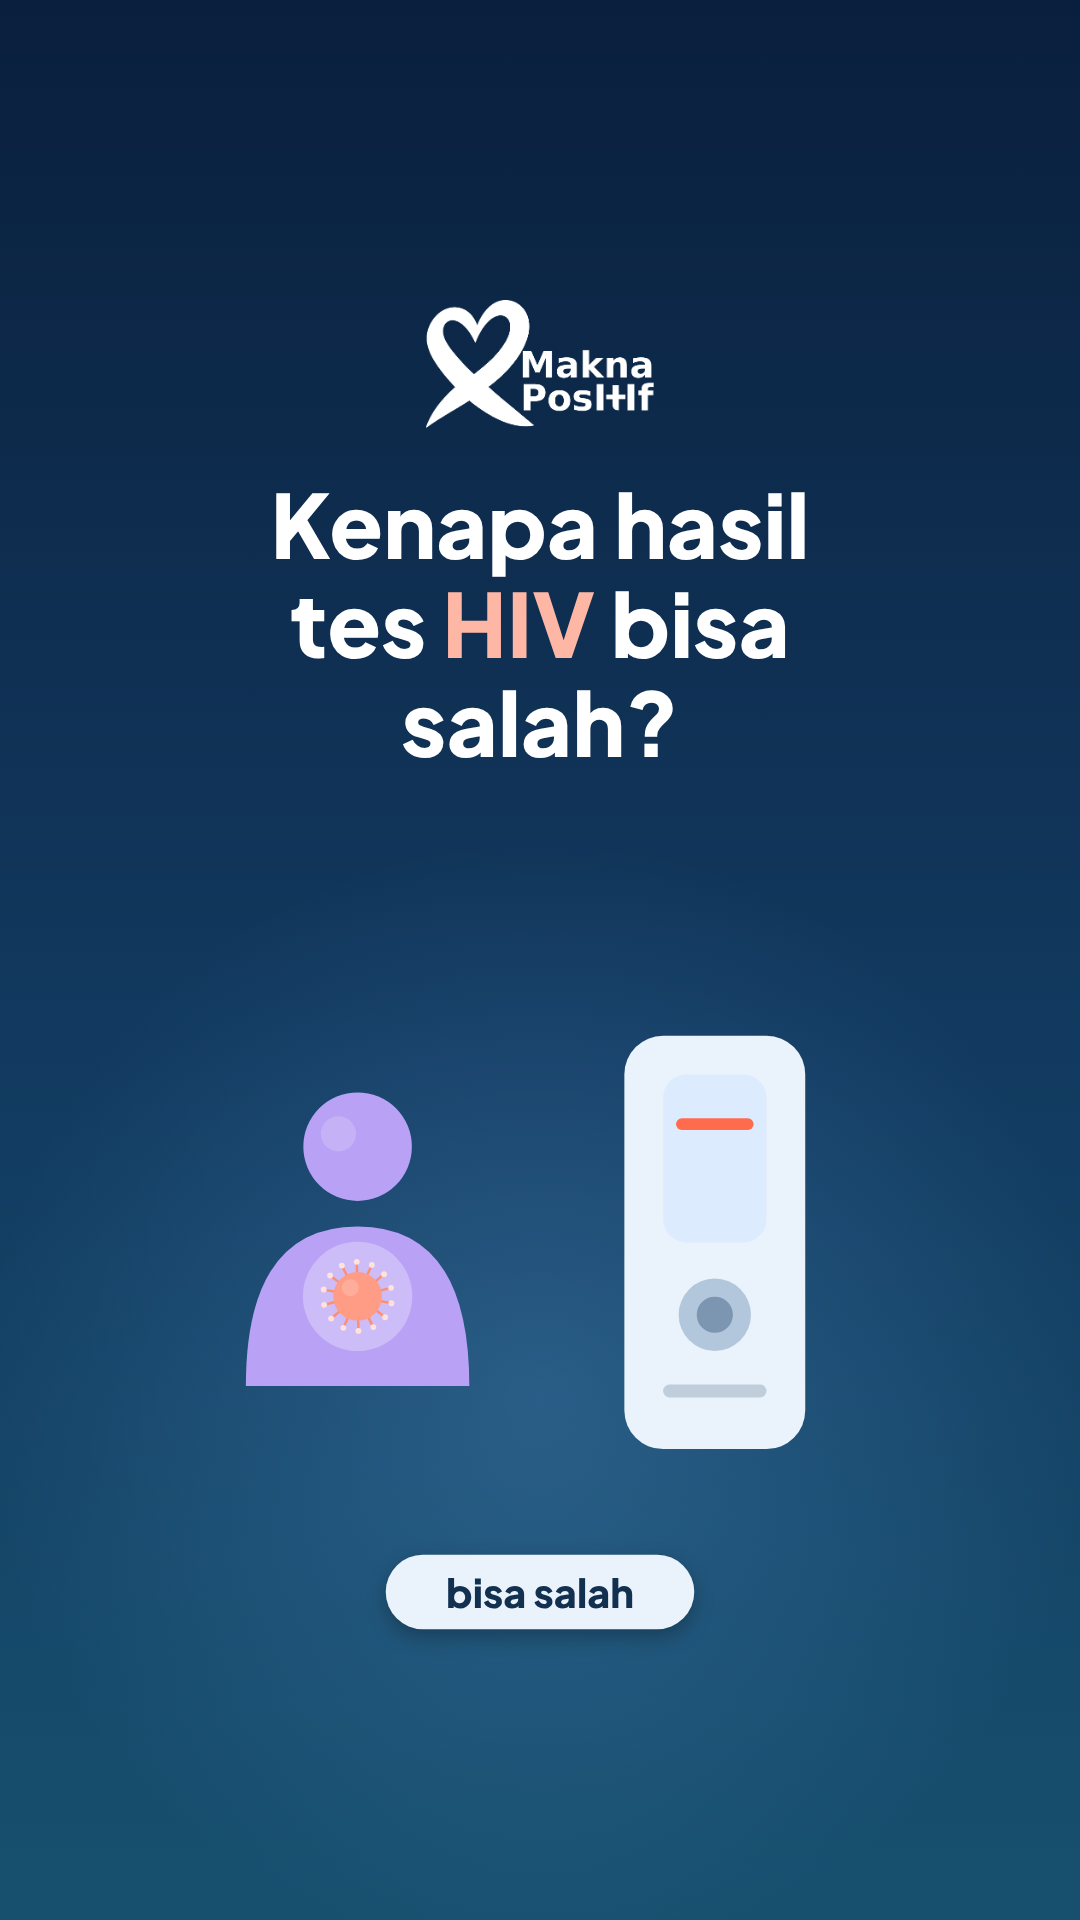
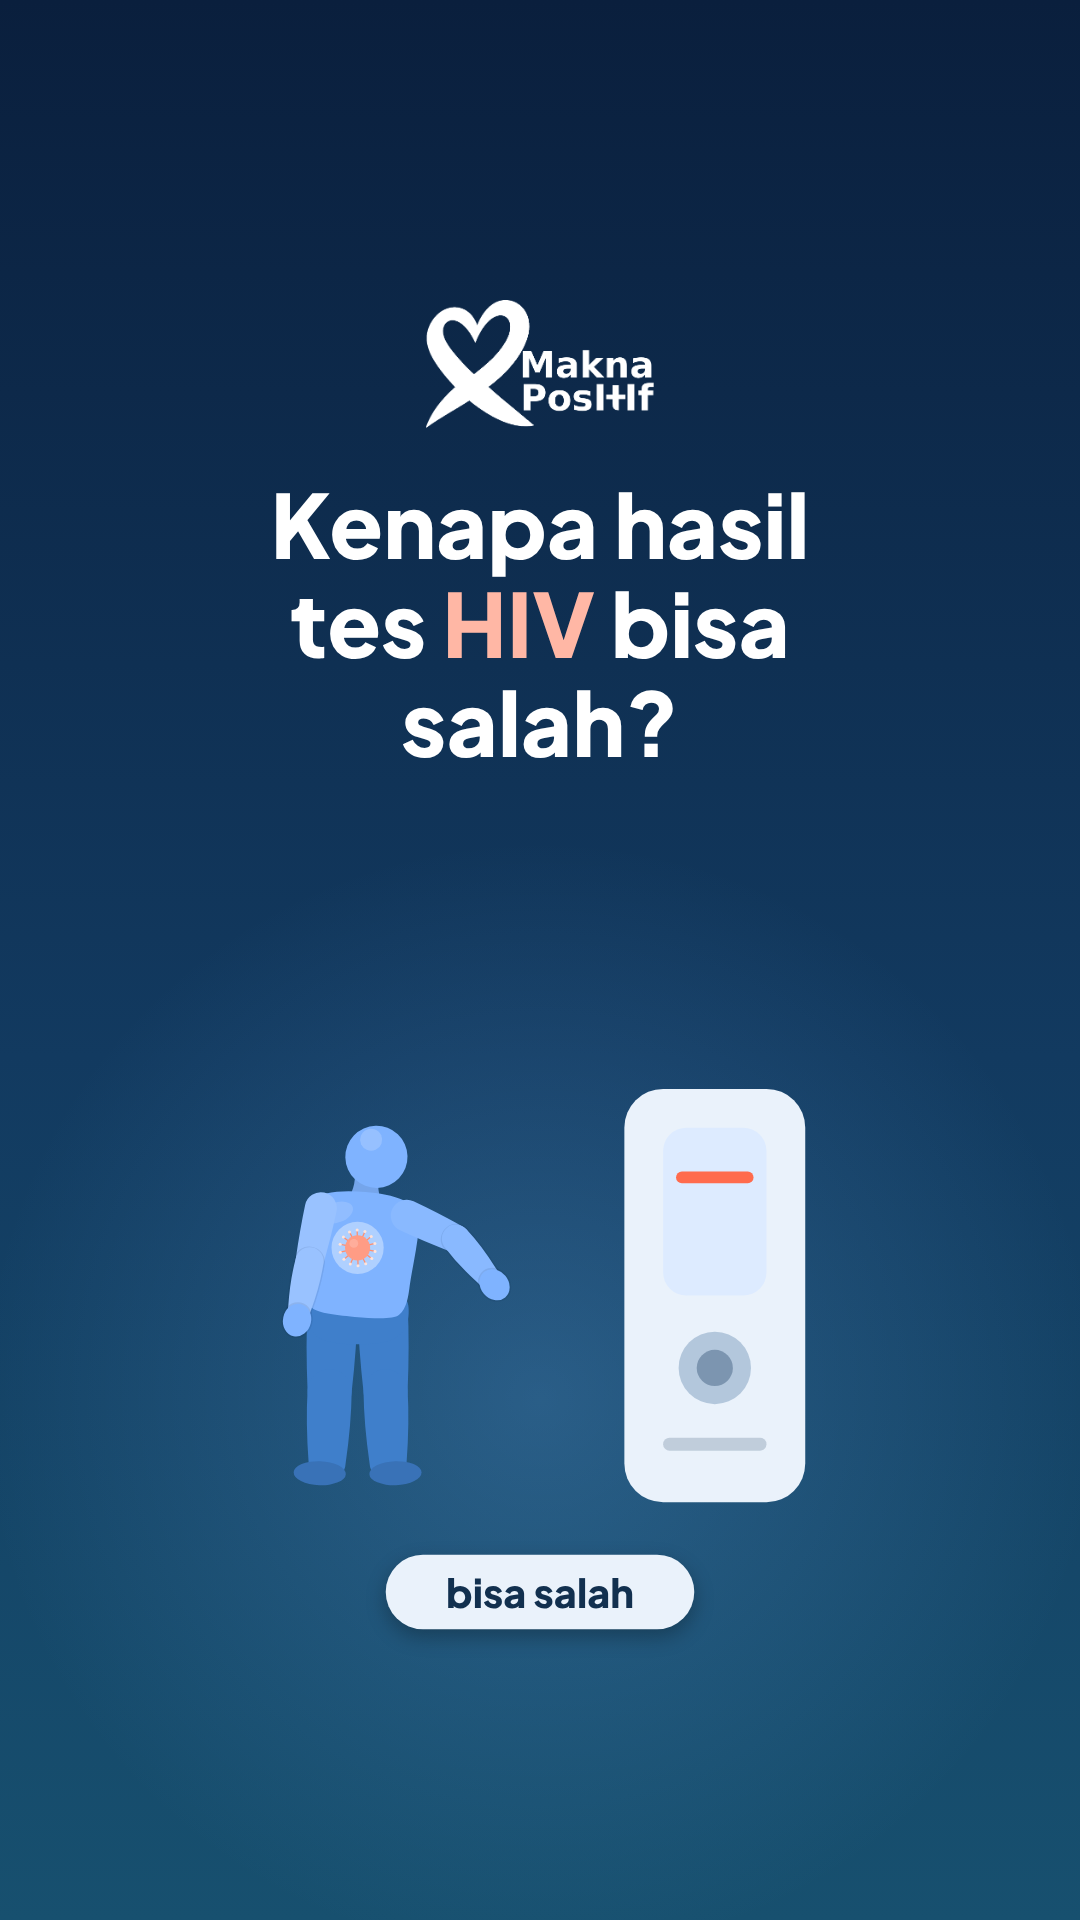
S2E10: pakai karakter modular (actor.tsx), tokoh lebih besar, pill lebih besar, kerucut kamera, thumbnail baru
Claude-Session: https://claude.ai/code/session_014bgpRKeZKvzyo9nF3WeRJL

Changed region(s): [[0.2139, 0.5625, 0.4889, 0.7812], [0.5806, 0.6562, 0.7639, 0.7812], [0.5806, 0.5312, 0.7639, 0.625]]

diff --git a/src/s2e10/S2E10.tsx b/src/s2e10/S2E10.tsx
@@ -5,6 +5,8 @@ import { ez, lerp, win, out3, sine, back, in3 } from '../motion';
 import * as L from '../shared/library';
 import { LIB_COL } from '../shared/library';
 import { FlatVirus, FlatCell, SHAPE_COL, Star } from '../shared/shapes';
+import { Actor, POSES_FRONT } from '../shared/actor';
+import type { Pose, ActorRole } from '../shared/actor';
 import { CUES, CLOSE, SCENE_T, T, TE, CL, EP_DUR } from './timeline';
 
 export const S2E10_FRAMES = Math.ceil(EP_DUR * FPS);
@@ -189,15 +191,18 @@ const RNA_COL = '#FF8E70'; // materi genetik virus
 const AG_COL = '#9ADBF0'; // tes antigen dan antibodi
 const SKY = '#DCE8F5';
 
-// "kamu" dengan virus di dalam lensa di dada (vk 0..1 = ukuran virus di dalam tubuh)
-const Body: React.FC<{ x: number; y: number; s?: number; op?: number; vk?: number; t: number }> = ({ x, y, s = 1, op = 1, vk = 1, t }) =>
+// tokoh modular (actor.tsx) berdiri di tanah gy; virus di dalam lensa di dada (vk 0..1)
+const gyc = (gy: number, s: number) => gy - 354 * s;
+const Hero: React.FC<{ x: number; gy: number; s?: number; op?: number; vk?: number; t: number; role?: ActorRole; pose?: Pose; lens?: boolean }> = ({ x, gy, s = 1, op = 1, vk = 1, t, role = 'blue', pose, lens = true }) =>
   s < 0.02 || op < 0.01 ? null : (
     <>
-      <L.Person cx={x} cy={y} s={s} op={op} color={KAMU} />
-      <g opacity={op}>
-        <circle cx={x} cy={y + 34 * s} r={34 * s} fill="#fff" opacity={0.28} />
-        {vk > 0.02 && <FlatVirus cx={x} cy={y + 34 * s} r={15 * s * vk} rot={t * 14} />}
-      </g>
+      <Actor cx={x} cy={gyc(gy, s)} s={s} op={op} role={role} pose={pose} />
+      {lens && (
+        <g opacity={op}>
+          <circle cx={x} cy={gyc(gy, s) - 120 * s} r={52 * s} fill="#fff" opacity={0.38} />
+          {vk > 0.02 && <FlatVirus cx={x} cy={gyc(gy, s) - 120 * s} r={25 * s * vk} rot={t * 14} />}
+        </g>
+      )}
     </>
   );
 
@@ -216,14 +221,14 @@ const Camera: React.FC<{ x: number; y: number; s?: number; op?: number; flash?: 
     </g>
   );
 
-// foto hasil kamera: berisi orang dengan lensa (isi lensa = yang sudah muncul)
+// foto hasil kamera: berisi tokoh modular dengan lensa (isi lensa = yang sudah muncul)
 const Photo: React.FC<{ x: number; y: number; s?: number; op?: number }> = ({ x, y, s = 1, op = 1 }) =>
   op < 0.01 ? null : (
     <g transform={`translate(${x} ${y}) scale(${s})`} opacity={op}>
-      <rect x={-135} y={-170} width={270} height={340} rx={22} fill="#EAF2FB" />
-      <rect x={-112} y={-148} width={224} height={250} rx={14} fill="#CFE3F7" />
-      <L.Person cx={0} cy={0} s={0.9} color={KAMU} />
-      <circle cx={0} cy={31} r={30} fill="#fff" opacity={0.5} />
+      <rect x={-150} y={-190} width={300} height={380} rx={24} fill="#EAF2FB" />
+      <rect x={-126} y={-166} width={252} height={290} rx={16} fill="#CFE3F7" />
+      <Actor cx={0} cy={gyc(104, 0.3)} s={0.3} role="blue" />
+      <circle cx={0} cy={gyc(104, 0.3) - 36} r={15.6} fill="#fff" opacity={0.5} />
     </g>
   );
 
@@ -272,12 +277,15 @@ const Scene1: React.FC<{ t: number }> = ({ t }) => {
   const clk = pop(t, T(2) + 0.1, 0.5);
   const k = pr(t, T(2) + 0.3, TE(2) + 0.4, sine);
   const wob = 1 + 0.05 * Math.sin(Math.max(0, t - 1.5) * 8) * (1 - pr(t, 2.0, 2.4));
+  // bingung: kepala miring + satu lengan menunjuk alat tes
+  const conf = pr(t, 1.5, 2.1);
+  const pose: Pose = { head: lerp(0, 18, conf), lean: lerp(0, 6, conf), armR: [lerp(7, 70, conf), lerp(0, -25, conf), 0] };
   return (
     <>
-      <Body x={330} y={900} s={1.7 * b} op={b} vk={vk} t={t} />
-      <L.TestKit cx={770} cy={900} s={1.3 * kit} op={kit} lines={1} />
-      <text x={770} y={640} textAnchor="middle" fontFamily={FONT} fontWeight={800} fontSize={150 * wob} fill="#F4D77E" opacity={q} transform={`scale(${q > 0 ? 1 : 0})`}>?</text>
-      <L.Clock cx={540} cy={560} s={1.25 * clk} op={clk} frac={0.04 + 0.7 * k} hour={9 * k} />
+      <Hero x={300} gy={1330} s={0.82 * b} op={b} vk={vk} t={t} pose={pose} />
+      <L.TestKit cx={790} cy={1010} s={1.45 * kit} op={kit} lines={1} />
+      <text x={790} y={680} textAnchor="middle" fontFamily={FONT} fontWeight={800} fontSize={170 * wob} fill="#F4D77E" opacity={q} transform={`scale(${q > 0 ? 1 : 0})`}>?</text>
+      <L.Clock cx={540} cy={560} s={1.4 * clk} op={clk} frac={0.04 + 0.7 * k} hour={9 * k} />
     </>
   );
 };
@@ -291,26 +299,26 @@ const Scene2: React.FC<{ t: number }> = ({ t }) => {
   const fl2 = pr(t, c1 + 0.9, c1 + 1.2) * (1 - pr(t, c1 + 1.2, c1 + 1.6));
   const ph = pr(t, c1 + 0.2, c1 + 1.0);
   const vk = pr(t, c1 + 1.6, c1 + 2.8, back); // virus tumbuh di tubuh setelah foto diambil
-  const cone = Math.max(fl, fl2);
+  const f = Math.max(fl, fl2);
   return (
     <>
-      <polygon points="360,610 700,700 700,980" fill="#fff" opacity={0.12 * Math.min(1, cone * 3 + 0.0)} />
-      <Camera x={290} y={640} s={1.6 * cam} op={cam} flash={Math.max(fl, fl2)} />
-      <Body x={800} y={820} s={1.5 * body} op={body} vk={vk} t={t} />
-      <Photo x={290} y={lerp(800, 1090, ph)} s={0.95 * ph} op={ph} />
+      <polygon points="380,640 560,760 560,1180" fill="#F4D77E" opacity={0.28 * f} />
+      <Camera x={300} y={620} s={1.85 * cam} op={cam} flash={f} />
+      <Hero x={810} gy={1330} s={0.82 * body} op={body} vk={vk} t={t} pose={POSES_FRONT.berdiri} />
+      <Photo x={300} y={lerp(760, 1090, ph)} s={1.0 * ph} op={ph} />
     </>
   );
 };
 
 // ---- adegan 3-5: tiga jenis tes, kaca pembesar membaca apa yang ada ----
-const BODY = { x: 290, y: 880, s: 1.45 };
-const LENS = { x: 760, y: 700, s: 1.5 };
+const BODY = { x: 280, gy: 1330, s: 0.84 };
+const LENS = { x: 735, y: 880, s: 1.55 };
 const Detector: React.FC<{ t: number; kind: 'ab' | 'agab' | 'nat'; a: number }> = ({ t, kind, a }) => {
   const body = pop(t, a + 0.05, 0.5);
   const mag = pop(t, a + 0.2, 0.5);
   const scan = Math.sin(Math.max(0, t - a - 0.7) * 3.2) * 18 * (1 - pr(t, a + 1.6, a + 2.2));
   const lx = LENS.x + scan, ly = LENS.y + scan * 0.4;
-  const bcx = BODY.x, bcy = BODY.y + 34 * BODY.s;
+  const bcx = BODY.x, bcy = gyc(BODY.gy, BODY.s) - 120 * BODY.s;
   const items: React.ReactNode[] = [];
   if (kind === 'ab' || kind === 'agab') {
     const starts = kind === 'ab' ? [CL(4, 1) + 0.15, CL(4, 1) + 0.7, CL(4, 1) + 1.25, CL(4, 1) + 1.8] : [a + 0.8, a + 1.4];
@@ -319,7 +327,7 @@ const Detector: React.FC<{ t: number; kind: 'ab' | 'agab' | 'nat'; a: number }> 
       const k = pr(t, starts[i], starts[i] + 1.0, sine);
       if (k <= 0.01) continue;
       const [fx, fy] = flyPt(k, bcx + 20, bcy - 20, lx + Y_AB[i][0], ly + Y_AB[i][1], 120);
-      items.push(<L.Antibody key={'ab' + i} cx={fx} cy={fy} s={0.8 - 0.1 * k} rot={lerp(-30, 0, k)} op={Math.min(1, k * 4)} color={AB_COL} />);
+      items.push(<L.Antibody key={'ab' + i} cx={fx} cy={fy} s={1.0 - 0.1 * k} rot={lerp(-30, 0, k)} op={Math.min(1, k * 4)} color={AB_COL} />);
     }
   }
   if (kind === 'agab') {
@@ -347,7 +355,7 @@ const Detector: React.FC<{ t: number; kind: 'ab' | 'agab' | 'nat'; a: number }> 
   const pulse = 1 + 0.05 * Math.sin(t * 4);
   return (
     <>
-      <Body x={BODY.x} y={BODY.y} s={BODY.s * body} op={body} vk={pulse} t={t} />
+      <Hero x={BODY.x} gy={BODY.gy} s={BODY.s * body} op={body} vk={pulse} t={t} pose={{ head: 8 * pr(t, a + 0.8, a + 1.6), armR: [lerp(7, 55, pr(t, a + 0.8, a + 1.6)), -20 * pr(t, a + 0.8, a + 1.6), 0] }} />
       <circle cx={lx} cy={ly} r={92 * LENS.s * mag} fill="#EAF2FB" opacity={0.14} />
       <L.Magnifier cx={lx} cy={ly} s={LENS.s * mag} op={mag} />
       {items}
@@ -386,8 +394,8 @@ const Scene6: React.FC<{ t: number }> = ({ t }) => {
 // ---- adegan 7 (kalimat 8): tiga tes dan lamanya jendela (angka dari narasi/CDC) ----
 const DX = (d: number) => 140 + d * 8.89;
 const BARS = [
-  { d0: 10, d1: 33, c: RNA_COL, y: 760, cl: 1, label: 'tes asam nukleat', dur: '10–33 hari' },
-  { d0: 18, d1: 45, c: AG_COL, y: 980, cl: 2, label: 'tes antigen dan antibodi', dur: '18–45 hari' },
+  { d0: 10, d1: 33, c: RNA_COL, y: 720, cl: 1, label: 'tes asam nukleat', dur: '10–33 hari' },
+  { d0: 18, d1: 45, c: AG_COL, y: 960, cl: 2, label: 'tes antigen dan antibodi', dur: '18–45 hari' },
   { d0: 23, d1: 90, c: AB_COL, y: 1200, cl: 3, label: 'tes antibodi', dur: '23–90 hari' },
 ];
 const barT = (i: number) => CL(8, BARS[i].cl) + 0.2;
@@ -405,8 +413,8 @@ const Scene7: React.FC<{ t: number }> = ({ t }) => {
         const w2 = (DX(b.d1) - DX(b.d0)) * Math.max(0, k * 2 - 1);
         return (
           <g key={i}>
-            <rect x={140} y={b.y - 24} width={Math.max(0.01, w1)} height={48} rx={24} fill="#fff" opacity={0.14} />
-            <rect x={DX(b.d0)} y={b.y - 30} width={Math.max(0.01, w2)} height={60} rx={30} fill={b.c} />
+            <rect x={140} y={b.y - 30} width={Math.max(0.01, w1)} height={60} rx={30} fill="#fff" opacity={0.14} />
+            <rect x={DX(b.d0)} y={b.y - 40} width={Math.max(0.01, w2)} height={80} rx={40} fill={b.c} />
           </g>
         );
       })}
@@ -424,8 +432,8 @@ const Scene8: React.FC<{ t: number }> = ({ t }) => {
   const pulse = 1 + 0.12 * Math.sin(Math.max(0, t - (a + 3.0)) * 6) * pr(t, a + 3.0, a + 3.3);
   return (
     <>
-      <Body x={310} y={780} s={1.45 * b} op={b} vk={pulse * 1.0} t={t} />
-      <L.TestKit cx={790} cy={760} s={1.15 * kit} op={kit} lines={1} />
+      <Hero x={290} gy={1010} s={0.7 * b} op={b} vk={pulse} t={t} pose={{ head: 14 * pr(t, a + 2.2, a + 2.8), lean: 5 * pr(t, a + 2.2, a + 2.8), armR: [lerp(7, 75, pr(t, a + 1.6, a + 2.3)), -20, 0] }} />
+      <L.TestKit cx={790} cy={720} s={1.3 * kit} op={kit} lines={1} />
       <line x1={WX0} y1={1170} x2={lerp(WX0, 940, tr)} y2={1170} stroke="#fff" strokeOpacity={0.3} strokeWidth={18} strokeLinecap="round" />
       <rect x={WX0 - 10} y={1095} width={(WX1 - WX0 + 20) * tr} height={150} rx={46} fill="#fff" opacity={0.16} />
       {tr > 0.05 && <circle cx={dx} cy={1170} r={26} fill="#F4D77E" />}
@@ -487,44 +495,48 @@ const Scene11: React.FC<{ t: number }> = ({ t }) => {
   const pep = pop(t, a + 0.15, 0.5);
   const prep = pop(t, a + 1.2, 0.5);
   const doc = pop(t, c1 + 0.05, 0.55);
-  const bub = pop(t, c1 + 0.6, 0.45);
+  const hero = pop(t, a + 0.2, 0.5);
+  const bub = pop(t, c1 + 0.3, 0.45) * (1 - pr(t, c1 + 1.5, c1 + 1.9));
   const cal = pop(t, c1 + 1.2, 0.5);
   const marks = [3, 10, 17].filter((_, i) => t > c1 + 1.7 + i * 0.35);
+  const pt = pr(t, c1 + 1.0, c1 + 1.7, sine); // dokter menunjuk kalender
+  const ask = pr(t, c1 + 0.2, c1 + 0.8, sine); // kamu bertanya: lengan terangkat
   return (
     <>
-      <L.Tablet cx={320} cy={640} s={1.5 * pep} op={pep} />
-      <L.TabletPrEP cx={750} cy={640} s={1.25 * prep} op={prep} />
-      <L.Doctor cx={260} cy={1010} s={1.5 * doc} op={doc} />
-      <L.SpeechBubble cx={560} cy={940} s={0.8 * bub} op={bub} tail="l" w={220} />
-      <L.Calendar cx={800} cy={1090} s={1.15 * cal} op={cal} marks={marks} markColor="#72E3D3" />
+      <L.Tablet cx={310} cy={580} s={1.9 * pep} op={pep} />
+      <L.TabletPrEP cx={760} cy={580} s={1.55 * prep} op={prep} />
+      <Hero x={880} gy={1360} s={0.6 * hero} op={hero} lens={false} t={t} pose={{ head: -12 * ask, armL: [lerp(7, 60, ask), -20 * ask, 0] }} />
+      <Hero x={200} gy={1360} s={0.6 * doc} op={doc} lens={false} role="purple" t={t} pose={{ armR: [lerp(7, 105, pt), lerp(0, -15, pt), 0], head: 8 * pt }} />
+      <L.SpeechBubble cx={720} cy={950} s={0.8 * bub} op={bub} tail="r" w={220} />
+      <L.Calendar cx={540} cy={1060} s={1.3 * cal} op={cal} marks={marks} markColor="#72E3D3" />
     </>
   );
 };
 
 const PILLS: { a: number; b: number; text: string; k: KK; x: number; y: number; size?: number }[] = [
-  { a: CL(3, 1) + 2.1, b: T(4) - 0.1, text: 'sudah muncul', k: 'neutral', x: 290, y: 1340, size: 30 },
-  { a: T(4) + 0.4, b: T(5) - 0.1, text: 'tes antibodi', k: 'neutral', x: 540, y: 1250, size: 34 },
-  { a: T(5) + 0.4, b: T(6) - 0.1, text: 'tes antigen dan antibodi', k: 'neutral', x: 540, y: 1250, size: 32 },
-  { a: T(6) + 0.4, b: T(7) - 0.1, text: 'tes asam nukleat', k: 'neutral', x: 540, y: 1250, size: 34 },
-  { a: T(7) + 0.6, b: CL(7, 1) - 0.1, text: 'paparan', k: 'neutral', x: 150, y: 880, size: 30 },
-  { a: T(7) + 1.2, b: T(8) - 0.1, text: 'jendela waktu', k: 'neutral', x: 420, y: 880, size: 32 },
-  { a: T(8) + 0.1, b: CL(8, 1) + 4.5, text: 'CDC', k: 'neutral', x: 540, y: 560, size: 36 },
-  { a: T(8) + 0.5, b: T(9) - 0.1, text: 'paparan', k: 'neutral', x: 150, y: 1405, size: 26 },
+  { a: CL(3, 1) + 2.1, b: T(4) - 0.1, text: 'sudah muncul', k: 'neutral', x: 300, y: 1380, size: 38 },
+  { a: T(4) + 0.4, b: T(5) - 0.1, text: 'tes antibodi', k: 'neutral', x: 540, y: 520, size: 46 },
+  { a: T(5) + 0.4, b: T(6) - 0.1, text: 'tes antigen dan antibodi', k: 'neutral', x: 540, y: 520, size: 40 },
+  { a: T(6) + 0.4, b: T(7) - 0.1, text: 'tes asam nukleat', k: 'neutral', x: 540, y: 520, size: 46 },
+  { a: T(7) + 0.6, b: CL(7, 1) - 0.1, text: 'paparan', k: 'neutral', x: 160, y: 885, size: 36 },
+  { a: T(7) + 1.2, b: T(8) - 0.1, text: 'jendela waktu', k: 'neutral', x: 420, y: 885, size: 38 },
+  { a: T(8) + 0.1, b: CL(8, 1) + 4.5, text: 'CDC', k: 'neutral', x: 540, y: 500, size: 44 },
+  { a: T(8) + 0.5, b: T(9) - 0.1, text: 'paparan', k: 'neutral', x: 160, y: 1400, size: 32 },
   ...BARS.flatMap((b, i) => [
-    { a: barT(i), b: T(9) - 0.1, text: b.label, k: 'neutral' as KK, x: (DX(b.d0) + DX(b.d1)) / 2, y: b.y - 66, size: 28 },
-    { a: barT(i) + 1.4, b: T(9) - 0.1, text: b.dur, k: 'neutral' as KK, x: (DX(b.d0) + DX(b.d1)) / 2, y: b.y + 68, size: 28 },
+    { a: barT(i), b: T(9) - 0.1, text: b.label, k: 'neutral' as KK, x: Math.max(250, Math.min(830, (DX(b.d0) + DX(b.d1)) / 2)), y: b.y - 78, size: 34 },
+    { a: barT(i) + 1.4, b: T(9) - 0.1, text: b.dur, k: 'neutral' as KK, x: (DX(b.d0) + DX(b.d1)) / 2, y: b.y + 82, size: 34 },
   ]),
-  { a: T(9) + 2.0, b: T(10) - 0.1, text: 'tampak negatif', k: 'neutral', x: 790, y: 990, size: 30 },
-  { a: T(9) + 3.2, b: T(10) - 0.1, text: 'virus sudah ada', k: 'neutral', x: 310, y: 990, size: 30 },
-  { a: T(10) + 0.5, b: T(11) - 0.1, text: 'reaktif', k: 'neutral', x: 230, y: 920, size: 30 },
-  { a: T(10) + 2.0, b: T(11) - 0.1, text: 'tes lanjutan', k: 'neutral', x: 800, y: 920, size: 30 },
-  { a: CL(10, 1) + 1.6, b: T(11) - 0.1, text: 'diagnosis', k: 'neutral', x: 760, y: 1345, size: 30 },
-  { a: T(11) + 0.4, b: CL(11, 1) - 0.1, text: 'paparan', k: 'neutral', x: 150, y: 880, size: 30 },
-  { a: CL(11, 1) + 2.0, b: T(12) - 0.1, text: 'ulangi tes', k: 'neutral', x: 800, y: 928, size: 32 },
-  { a: T(12) + 0.6, b: T(12) + 99, text: 'PEP', k: 'neutral', x: 320, y: 740, size: 32 },
-  { a: T(12) + 1.6, b: T(12) + 99, text: 'PrEP', k: 'neutral', x: 750, y: 740, size: 32 },
-  { a: CL(12, 1) + 0.9, b: T(12) + 99, text: 'tenaga kesehatan', k: 'neutral', x: 260, y: 1190, size: 28 },
-  { a: CL(12, 1) + 2.3, b: T(12) + 99, text: 'jadwal tes', k: 'neutral', x: 800, y: 1270, size: 30 },
+  { a: T(9) + 2.0, b: T(10) - 0.1, text: 'tampak negatif', k: 'neutral', x: 790, y: 960, size: 36 },
+  { a: T(9) + 3.2, b: T(10) - 0.1, text: 'virus sudah ada', k: 'neutral', x: 290, y: 1060, size: 34 },
+  { a: T(10) + 0.5, b: T(11) - 0.1, text: 'reaktif', k: 'neutral', x: 230, y: 930, size: 36 },
+  { a: T(10) + 2.0, b: T(11) - 0.1, text: 'tes lanjutan', k: 'neutral', x: 800, y: 930, size: 36 },
+  { a: CL(10, 1) + 1.6, b: T(11) - 0.1, text: 'diagnosis', k: 'neutral', x: 760, y: 1360, size: 36 },
+  { a: T(11) + 0.4, b: CL(11, 1) - 0.1, text: 'paparan', k: 'neutral', x: 160, y: 885, size: 36 },
+  { a: CL(11, 1) + 2.0, b: T(12) - 0.1, text: 'ulangi tes', k: 'neutral', x: 800, y: 1110, size: 38 },
+  { a: T(12) + 0.6, b: T(12) + 99, text: 'PEP', k: 'neutral', x: 310, y: 700, size: 38 },
+  { a: T(12) + 1.6, b: T(12) + 99, text: 'PrEP', k: 'neutral', x: 760, y: 700, size: 38 },
+  { a: CL(12, 1) + 0.9, b: T(12) + 99, text: 'tenaga kesehatan', k: 'neutral', x: 270, y: 1405, size: 30 },
+  { a: CL(12, 1) + 2.3, b: T(12) + 99, text: 'jadwal tes', k: 'neutral', x: 540, y: 1250, size: 36 },
 ];
 const Pills: React.FC<{ t: number }> = ({ t }) => (
   <>

diff --git a/src/thumb/Thumb.tsx b/src/thumb/Thumb.tsx
@@ -1,6 +1,7 @@
 import React from 'react';
 import { AbsoluteFill, Img, continueRender, delayRender, staticFile } from 'remotion';
 import { FONT } from '../Board';
+import { Actor } from '../shared/actor';
 import { FlatCell, FlatVirus, Figure, SHAPE_COL } from '../shared/shapes';
 import { Glass, VDot, WATER_CLEAR } from '../ep5/shapes5';
 import { BodyLens, Calendar, Capsule, Clock, CrossBadge, Group, LineChart, Person, TestKit, Document, Clinic, Tablet, PersonPose, Heart, Mosquito, Seed, Home } from '../shared/library';
@@ -747,10 +748,10 @@ export const ThumbS2E10: React.FC = () => (
     glowY={1400}
   >
     <Svg>
-      <Person cx={300} cy={1330} s={2.1} color="#B9A2F5" />
-      <circle cx={300} cy={1401} r={72} fill="#fff" opacity={0.28} />
-      <FlatVirus cx={300} cy={1401} r={32} />
-      <TestKit cx={770} cy={1330} s={1.7} lines={1} />
+      <Actor cx={300} cy={1650 - 354 * 0.66} s={0.66} role="blue" pose={{ head: 16, lean: 5, armR: [70, -25, 0] }} />
+      <circle cx={300} cy={1650 - 354 * 0.66 - 120 * 0.66} r={52 * 0.66} fill="#fff" opacity={0.38} />
+      <FlatVirus cx={300} cy={1650 - 354 * 0.66 - 120 * 0.66} r={25 * 0.66} />
+      <TestKit cx={770} cy={1400} s={1.7} lines={1} />
     </Svg>
     <Pill cx={540} cy={1790} text="bisa salah" bg="#EAF2FB" fg="#12304F" size={52} />
   </ThumbFrame>

diff --git a/README.md b/README.md
@@ -376,7 +376,7 @@ Tanpa storyboard. Kode CD4 lama yang sempat memakai nama S2E9 dipindah ke `src/s
 
 ## Episode S2E10: "Kenapa hasil tes HIV bisa salah?"
 
-Tanpa storyboard. Kode: `src/s2e10/` (`timeline.ts`, `holds.json`, `sync.ts`, `segments.json` dari `retime.mjs analyze` (12 kalimat, semua batas meyakinkan); `S2E10.tsx` = 11 adegan animasi + subtitle + penutup). Composition `S2E10Full` (suara 69,25 dtk + jeda 6,1 dtk, total 79,35 dtk termasuk ekor 8 dtk). Render: `bash scripts/render_s2e10.sh` -> `out/S2E10.mp4`. Tidak ada objek library baru (kamera, foto, bagian virus/duri, panah ulang, batang jendela waktu ditulis di adegan). Tokoh "kamu" = `Person` lavender dengan lensa berisi virus. Analogi: tes = kamera yang hanya memotret yang sudah muncul; tiga tes dibaca kaca pembesar (antibodi Y pucat, bagian virus = satu duri, materi genetik = RNA koral). Legenda: adegan 1, 3, 4, 5 dan 6. Pill: nama tes, "paparan", "jendela waktu", "CDC", angka hari (10–33, 18–45, 23–90), "reaktif", "tes lanjutan", "diagnosis", "ulangi tes", "PEP", "PrEP", "tenaga kesehatan", "jadwal tes". Cover: `media/cover/S2E10.png` (`ThumbS2E10`).
+Tanpa storyboard. Kode: `src/s2e10/` (`timeline.ts`, `holds.json`, `sync.ts`, `segments.json` dari `retime.mjs analyze` (12 kalimat, semua batas meyakinkan); `S2E10.tsx` = 11 adegan animasi + subtitle + penutup). Composition `S2E10Full` (suara 69,25 dtk + jeda 6,1 dtk, total 79,35 dtk termasuk ekor 8 dtk). Render: `bash scripts/render_s2e10.sh` -> `out/S2E10.mp4`. Tidak ada objek library baru (kamera, foto, bagian virus/duri, panah ulang, batang jendela waktu ditulis di adegan). Tokoh manusia = karakter modular `src/shared/actor.tsx` (kamu = `blue` dengan lensa virus di dada, dokter = `purple`; direvisi dari `Person` lama). Analogi: tes = kamera yang hanya memotret yang sudah muncul; tiga tes dibaca kaca pembesar (antibodi Y pucat, bagian virus = satu duri, materi genetik = RNA koral). Legenda: adegan 1, 3, 4, 5 dan 6. Pill: nama tes, "paparan", "jendela waktu", "CDC", angka hari (10–33, 18–45, 23–90), "reaktif", "tes lanjutan", "diagnosis", "ulangi tes", "PEP", "PrEP", "tenaga kesehatan", "jadwal tes". Cover: `media/cover/S2E10.png` (`ThumbS2E10`).
 
 Versi lain dari S2E6 dengan karakter modular (`src/shared/actor.tsx`); versi `S2E6Full` tetap ada. Kode: `src/s2e6alt/` (`S2E6Alt.tsx`, `timeline.ts` memakai `sync.ts`/jeda dari `src/s2e6/`, jadi narasi, suara, dan waktu identik). Composition `S2E6AltFull` (2348 frame). Render: `bash scripts/render_s2e6alt.sh` -> `out/S2E6alt.mp4`. Tokoh: kamu = `blue`, pasangan (orang dengan HIV, lensa virus kecil di dada) = `yellow`, masyarakat = `teal`. Pelukan = lengan sisi dalam melingkar (`hugPose`), jalan = siklus `jalan` tampak samping, menuding = lengan terangkat lalu turun. Kisi 30 pasangan di adegan 4 memakai `Actor` kecil. Tidak ada pose/atribut baru di `actor.tsx`.
 
